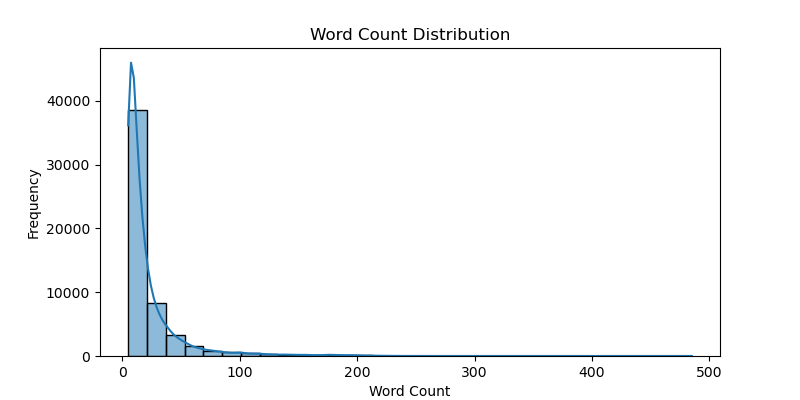
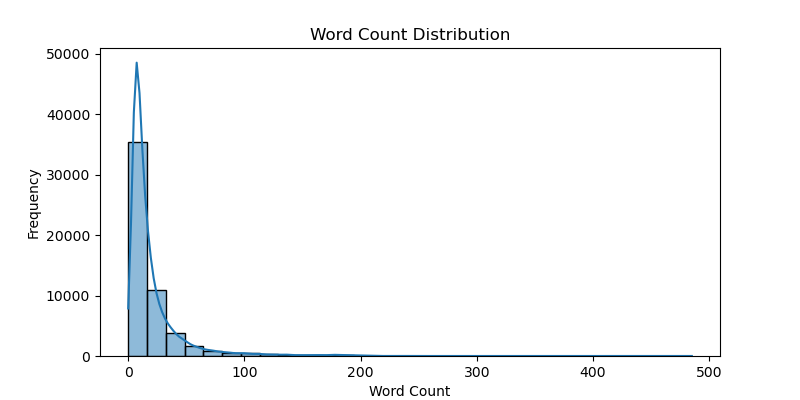
upd

diff --git a/dev/model.py b/dev/model.py
@@ -33,7 +33,9 @@ def top_n_words(texts, n=30):
 
 def plot_length_distribution(df):
     plt.figure(figsize=(8,4))
-    sns.histplot(df['clean_notes'].apply(lambda x: len(x.split())), bins=30, kde=True)
+    lengths = df['clean_notes'].str.split().apply(len)
+    sns.histplot(lengths, bins=30, kde=True)
+    print(lengths.describe())
     plt.title('Word Count Distribution')
     plt.xlabel('Word Count')
     plt.ylabel('Frequency')
@@ -722,14 +724,14 @@ def general_stat():
 
     top_words = top_n_words(df['clean_notes'].tolist(), n=30)
 
-    # plot_length_distribution(df)
-    plot_wordcloud(df, label=1, top_words=top_words)
-    plot_wordcloud(df, label=0, top_words=top_words)
-    plot_wordcloud_lengthy(df, label=1, min_length=50, top_words=top_words)
-    plot_wordcloud_lengthy(df, label=0, min_length=50, top_words=top_words)
-    plot_top_words(df, n=30)
+    plot_length_distribution(df)
+    # plot_wordcloud(df, label=1, top_words=top_words)
+    # plot_wordcloud(df, label=0, top_words=top_words)
+    # plot_wordcloud_lengthy(df, label=1, min_length=50, top_words=top_words)
+    # plot_wordcloud_lengthy(df, label=0, min_length=50, top_words=top_words)
+    # plot_top_words(df, n=30)
     # plot_length_vs_vote_scatter(df)
-    plot_top_words_vs_vote(df, n=15)
+    # plot_top_words_vs_vote(df, n=15)
 
 if __name__ == "__main__":
     # train_and_evaluate()
